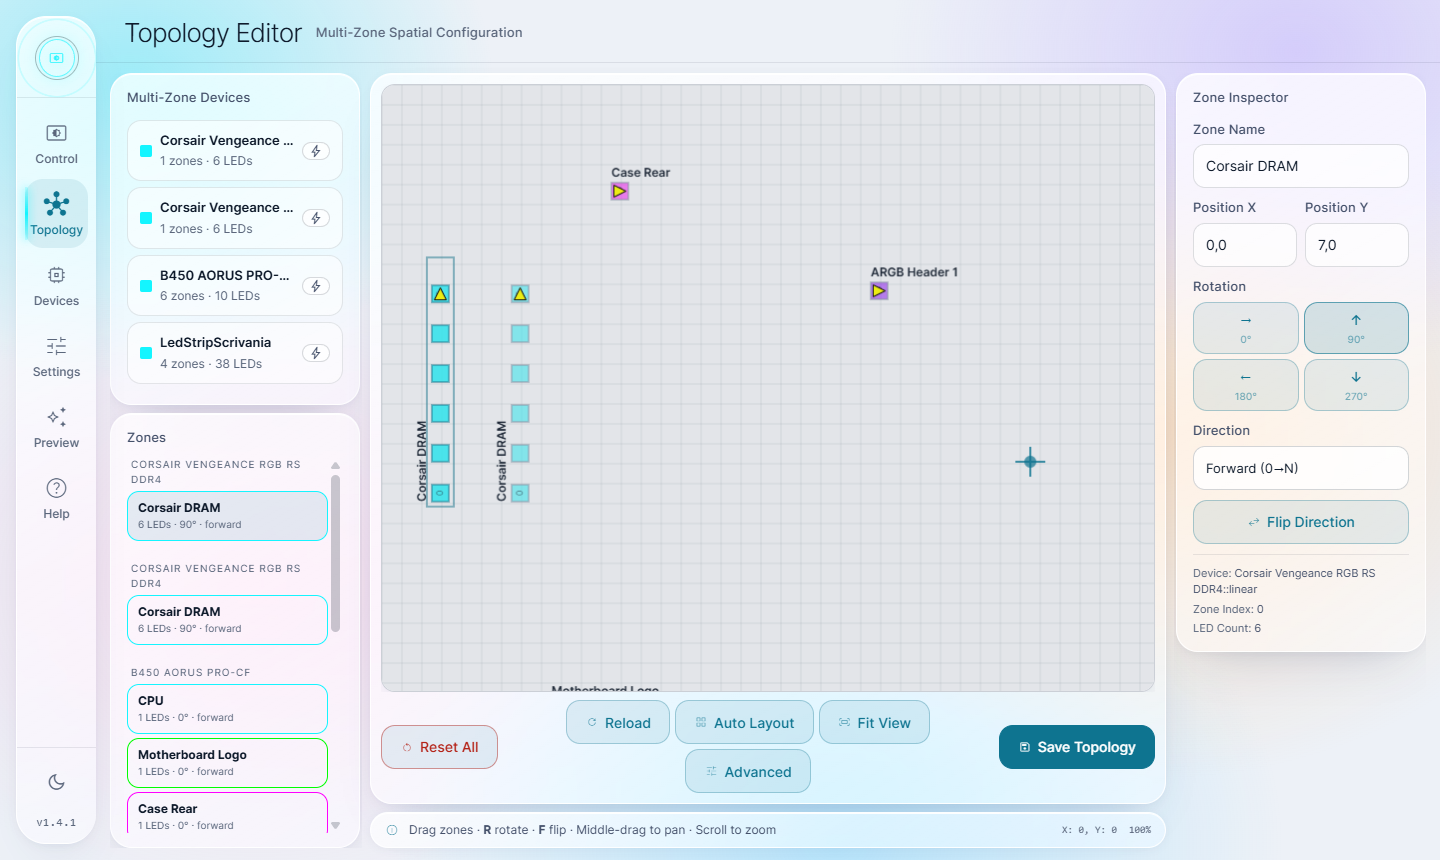
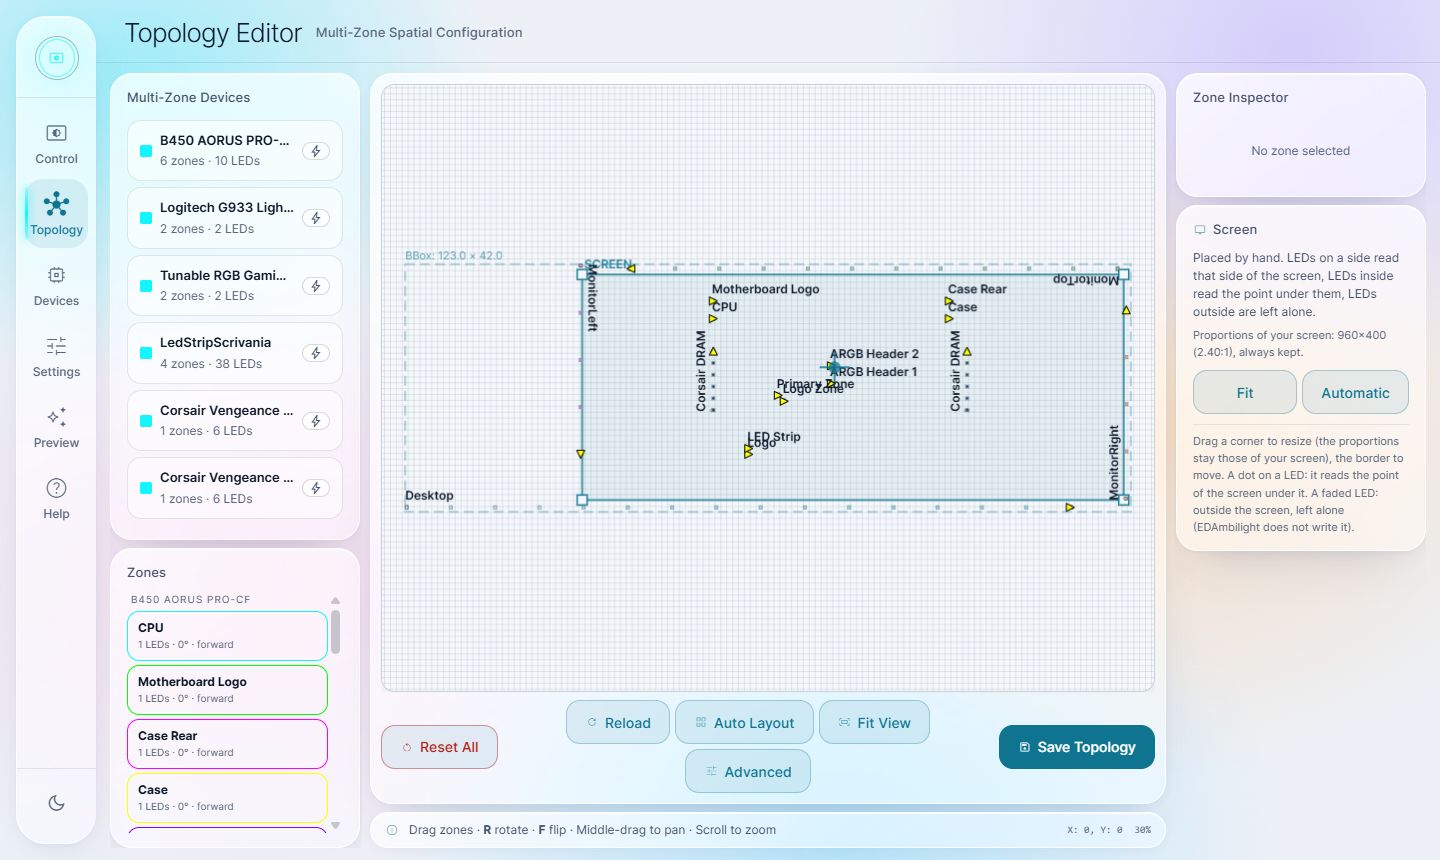
Prepare release 1.6.0
Version 1.6.0, CHANGELOG sorted into Added / Changed / Fixed, Topology Editor screenshots (both themes) with the screen rectangle.

diff --git a/src/version.py b/src/version.py
@@ -1,3 +1,3 @@
 """Single source of truth for the application version (shown in the UI)."""
 
-__version__ = "1.5.0"
+__version__ = "1.6.0"

diff --git a/CHANGELOG.md b/CHANGELOG.md
@@ -8,52 +8,63 @@ The format follows [Keep a Changelog](https://keepachangelog.com/en/1.1.0/).
 
 ## [Unreleased]
 
+---
+
+## [1.6.0] — 2026-11-10
+
+### Added
+
+- **Screen rectangle: where a zone is, not what it is called.** The Topology Editor has a SCREEN
+  rectangle (your monitor): **Fit** places it on the strips, corners resize it, the border moves it.
+  LEDs on a side of the rectangle follow that side of the screen, LEDs inside read the point of the
+  screen under them (the centre reads the centre), LEDs outside are left alone. It works LED by LED,
+  so a zone longer than the screen lights only the part along it. Zone names no longer matter, in
+  any language.
+  - A strip a little above / below a side still counts as that side (15% of the short side, across
+    it); past the end of a side (more than half a LED beyond the corner) a LED is outside, and a
+    horizontal strip never reads a vertical side (nor the other way round).
+  - The rectangle always has the proportions of the real screen (read from the capture, else from
+    Windows): Fit and the automatic rectangle grow to them, corners resize keeping them. A rectangle
+    saved with other proportions is adapted when the editor opens and left unsaved, with a warning,
+    because growing it can move strips from a side to the inside.
+  - Without a rectangle, setups whose zones are named MonitorTop / Right / Bottom / Left keep the old
+    name-based mapping (Fit reproduces it); others use the bounding box of the whole scene.
+  - Once the rectangle is placed, zones that read one point measure it on the screen, not on the
+    whole scene as before: devices placed away from the monitor may read a different part of it.
+  - On the canvas, a faded LED is outside the screen and a dot on a LED means it reads one point.
+- **Key grids.** A zone that OpenRGB describes as a matrix (a keyboard: 24 x 6 cells on an ASUS TUF
+  Gaming K7) is no longer one row with one color. A grid of that size is laid over the whole screen
+  and every key shows the mean color of the cell it sits under, so the keyboard becomes a tiny copy
+  of the picture. The sampling preview draws the keys as tiles; the Devices page names the zone
+  "24x6 keys". The OpenRGB client now keeps the key map it used to discard. A key grid has nothing
+  to place, so it is not shown in the Topology Editor (it stays in the config).
+- Keyboards are no longer hidden: they are listed like any device, off until you switch them on.
+  After updating, a keyboard that was hidden before appears once in the "hardware changed" notice.
+
 ### Changed
 
-- **Where a zone is, not what it is called.** The Topology Editor has a SCREEN rectangle (your monitor):
-  **Fit** places it on the strips, corners resize it, the border moves it. LEDs on a side of the rectangle
-  follow that side of the screen, LEDs inside read the point of the screen under them, LEDs outside are
-  left alone; it works LED by LED, so a zone longer than the screen lights only the part along it.
-  A strip a little above / below a side still counts as that side (15% of the short side, across it),
-  but past the end of the side (more than half a LED beyond the corner) a LED is outside, and a
-  horizontal strip never reads a vertical side (nor the other way round). Zone names
-  no longer matter. Without a rectangle, setups whose zones are named MonitorTop / Right / Bottom / Left
-  keep the old mapping (Fit reproduces it), others use the bounding box of the whole scene.
-  The rectangle always has the proportions of the real screen (read from the capture, else from
-  Windows): Fit and the automatic rectangle grow to them, corners resize keeping them. A rectangle
-  saved with other proportions is adapted when the editor opens and left unsaved, with a warning,
-  because growing it can move strips from a side to the inside.
+- **Devices is now the one place for hardware.** Each device is a row with its on/off switch and an
+  expandable list of its zones (the zone switches used to be on the Control page, where they were easy
+  to miss). A small live Sampling preview at the top shows what turning a device or zone on or off
+  does. The Control page keeps only compact on/off chips, a summary and a warning when nothing would
+  light up (no device mapped, none on, or no active zone).
 - **LEDs the ambilight does not use are left free.** LEDs outside the screen and zones switched off in
   Devices used to be sent black at every frame, so nothing else could light them. Now only the LEDs in
   use are written (one packet per device when all are used, per zone or per LED otherwise), and a LED
   that stops being used gets black once. The others keep what OpenRGB or another program gives them.
   The OpenRGB client gained zone and single-LED updates. Calibration still blacks out whole devices.
+- The chosen theme is also saved in `config/settings.json` (`ui_theme`), not only in the browser, so
+  it is no longer lost when the web port changes, another browser is used or site data is cleared.
+- Topology Editor: the grey "VBBox" is gone (a leftover from ED:Event2Led, used by nothing here) and
+  the Effect Center panel is now **Calibration Center**: it only sets where the calibration rings start.
+
+### Fixed
+
 - **Flip Direction now works.** It used to change only the arrow on the canvas: the LED order always
   followed the rotation. Now Flip (F) means the zone is wired the other way round, LED 0 at the far
   end, and the ambilight, the calibration and the screen rectangle all follow it. A zone that was
   saved as "reverse" in an older version will now really run the other way: flip it back if needed.
-- Topology Editor: the grey "VBBox" is gone (a leftover from ED:Event2Led, used by nothing here) and
-  the Effect Center panel is now **Calibration Center**: it only sets where the calibration rings start.
-  Note: once the rectangle is placed, zones read their point relative to the screen, not to the whole
-  scene as before, so devices placed away from the monitor may read a different part of the screen.
-
-- **Devices is now the one place for hardware.** Each device is a row with its on/off switch and an
-  expandable list of its zones (the zone switches used to be on the Control page, where they were easy
-  to miss). A small live Sampling preview at the top shows what
-  turning a device or zone on or off does. The Control page keeps only compact on/off chips, a summary
-  and a warning when nothing would light up (no device mapped, none on, or no active zone).
-- Keyboards are no longer hidden: they are listed like any device, off until you switch them on.
-  After updating, a keyboard that was hidden before appears once in the "hardware changed" notice.
-- **Key grids.** A zone that OpenRGB describes as a matrix (a keyboard: 24 x 6 cells on an ASUS TUF
-  Gaming K7) is no longer one row with one color. A grid of that size is laid over the whole screen
-  and every key shows the mean color of the cell it sits under, so the keyboard becomes a tiny copy
-  of the picture. The sampling preview draws the keys as tiles; the Devices page names the zone
-  "24x6 keys". The OpenRGB client now keeps the key map it used to discard. A key grid has
-  nothing to place, so it is no longer shown in the Topology Editor (it stays in the config).
-- The chosen theme is now also saved in `config/settings.json` (`ui_theme`), not only in the
-  browser. It is no longer lost when the web port changes, when another browser is used or when
-  the browser clears site data. The saved value wins at load; an existing browser choice is
-  copied into the file the first time.
+- Changing the theme within a second of opening a page no longer gets undone by the saved value.
 
 ---
 

diff --git a/README.md b/README.md
@@ -3,7 +3,7 @@
 **Real-time screen ambient lighting controller for OpenRGB**
 
 ![Platform](https://img.shields.io/badge/platform-Windows%2010%2F11-blue)
-![Version](https://img.shields.io/badge/version-1.5.0-cyan)
+![Version](https://img.shields.io/badge/version-1.6.0-cyan)
 ![OpenRGB](https://img.shields.io/badge/requires-OpenRGB-orange)
 ![License](https://img.shields.io/badge/license-PolyForm%20Noncommercial-green)
 
